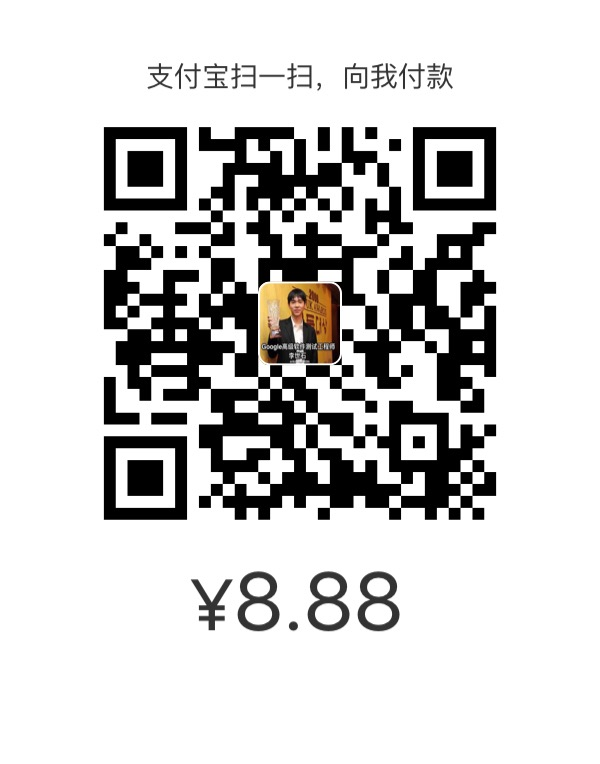
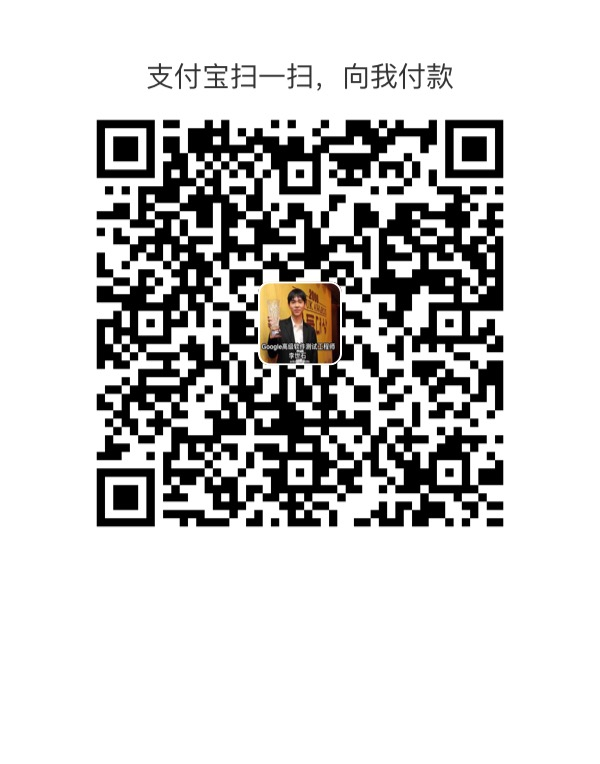
update donate code

Changed region(s): [[0.15, 0.1505, 0.84, 0.6924], [0.3, 0.7225, 0.69, 0.8429]]

diff --git a/README.md b/README.md
@@ -66,8 +66,6 @@ QQ 群：546452237
 
 # 捐助
 
-作者最近看上一个漂亮妹子，打算集资撩妹，感谢广大码友支持，您的捐助钱可能决定了作者的终身幸福 :)
-
 jQuery WeUI 是 MIT 协议的免费开源项目，不会收取任何费用。作者维护这个项目需要耗费不少精力，如果jQuery WeUI 帮到了你，你可以捐款让这个项目变得更好。当然，无论是否捐款，都感谢您对本项目的支持。
 
 **捐款是纯粹自愿的捐助行为，我将非常感谢您的捐助，但您本人并不会因为您的捐款而获得比其他不捐款用户更多的权利，望理解。**
